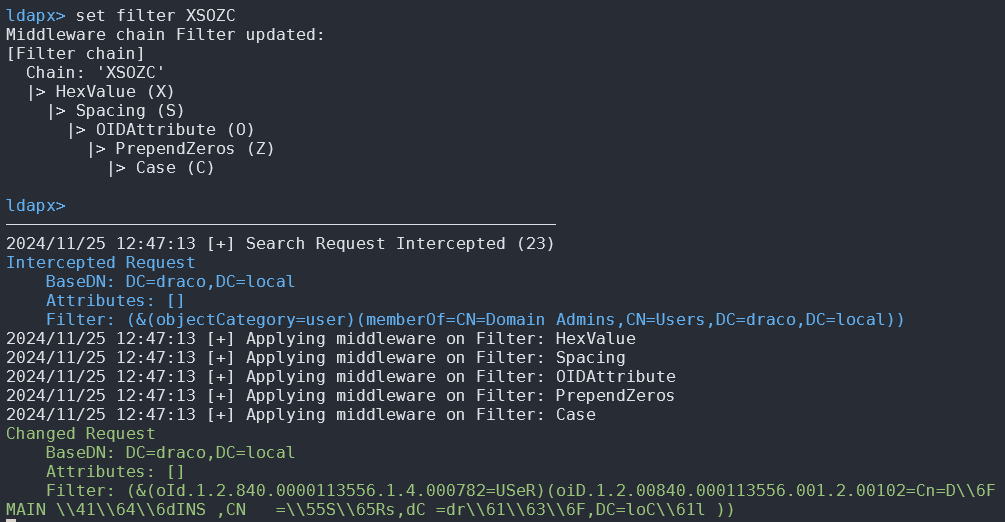
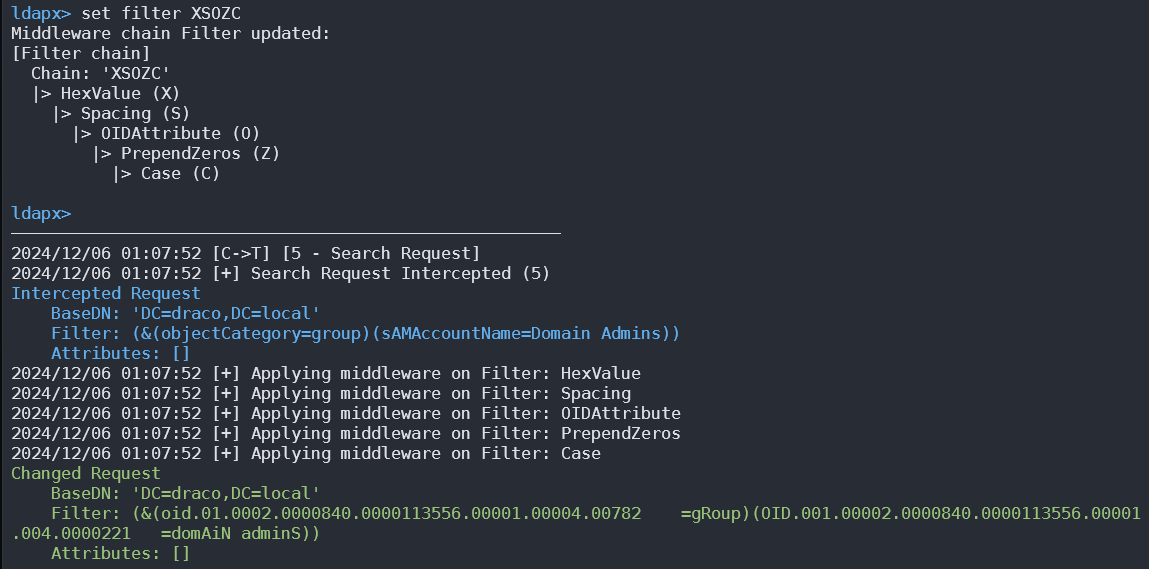
Updating images & README.

Changed region(s): [[0.0, 0.3372, 1.0, 1.0], [0.0, 0.0, 0.3085, 0.3372]]

diff --git a/README.md b/README.md
@@ -42,7 +42,7 @@ For more options check the `--help`.
 ### Applying multiple middlewares in filters, attributes list and baseDN
 
 ```bash
-$ ldapx -target 192.168.117.2:389 -f OGRD -a OW -b OZ
+$ ldapx -t 192.168.117.2:389 -f OGDR -a Owp -b OX
 ```
 
 ![Demo1](https://github.com/Macmod/ldapx/blob/main/images/demo1.png)
